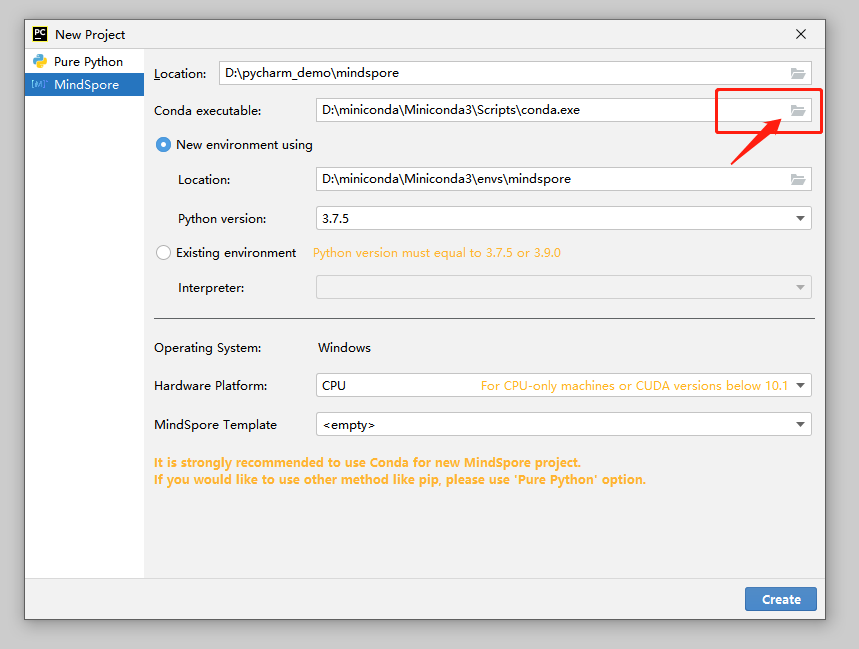
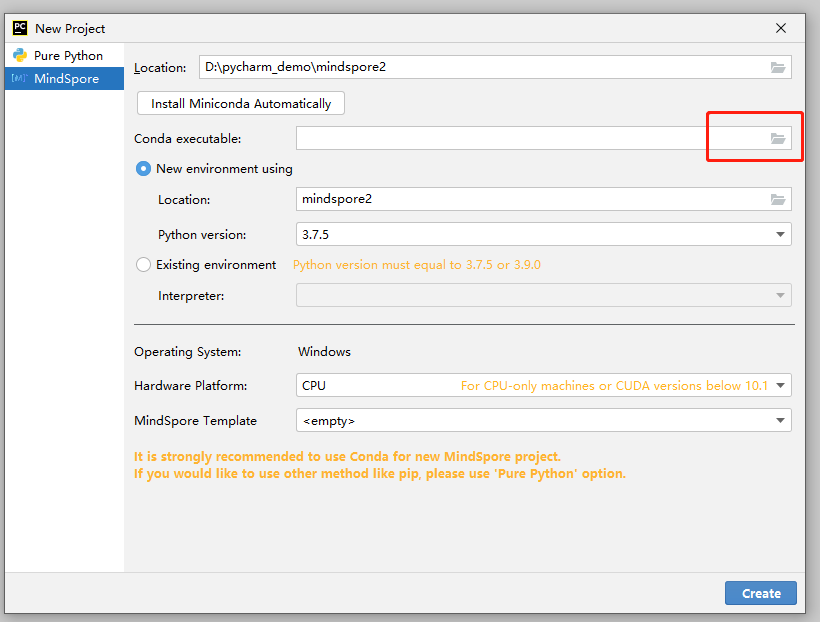
modify plugin doc

Changed region(s): [[0.0, 0.0, 1.0, 1.0]]

diff --git a/docs/devtoolkit/docs/source_zh_cn/compiling.md b/docs/devtoolkit/docs/source_zh_cn/compiling.md
@@ -37,7 +37,7 @@
 
 3. 使用IntelliJ IDEA打开项目。
 
-    3.1 File -> Open。
+    3.1 选择File选项卡下的Open选项。***File -> Open***
 
       ![img](images/clip_image033.jpg)
 
@@ -77,7 +77,7 @@
 
     ![img](images/clip_image044.jpg)
 
-8. 构建完成后至项目目录下/build/distributions目录下获取插件安装包。
+8. 构建完成后至项目目录下/pycharm/build/distributions目录下获取插件安装包。
 
     ![img](images/clip_image046.jpg)
 

diff --git a/docs/devtoolkit/docs/source_en/compiling.md b/docs/devtoolkit/docs/source_en/compiling.md
@@ -78,7 +78,7 @@ The following describes how to compile the MindSpore Dev ToolKit project based o
 
     ![img](images/clip_image044.jpg)
 
-8. Obtain the plug-in installation package from the **/build/distributions** directory in the project directory.
+8. Obtain the plug-in installation package from the **/pycharm/build/distributions** directory in the project directory.
 
     ![img](images/clip_image046.jpg)
 

diff --git a/docs/devtoolkit/docs/source_zh_cn/mindspore_project_wizard.md b/docs/devtoolkit/docs/source_zh_cn/mindspore_project_wizard.md
@@ -46,7 +46,7 @@
 
       ![img](images/clip_image015.jpg)
 
-4. 如果Conda executable没有自动填充，选择已安装的conda的路径。
+4. 如果用户本地已经安装过Conda，但是Conda executable没有自动填充，点击文件夹按钮，选择本地已安装的conda的路径。
 
     ![img](images/clip_image016.jpg)
 

diff --git a/docs/devtoolkit/docs/source_zh_cn/index.rst b/docs/devtoolkit/docs/source_zh_cn/index.rst
@@ -47,7 +47,7 @@ MindSpore Dev Toolkit 是一款 `PyCharm <https://www.jetbrains.com/pycharm/>`_ 
 
    .. image:: ./images/clip_image050.jpg
 
-3. 选择插件zip包。
+3. 选择下载好的插件包（以1.7版本安装包为例）
 
    .. image:: ./images/clip_image052.jpg
 

diff --git a/docs/devtoolkit/docs/source_en/index.rst b/docs/devtoolkit/docs/source_en/index.rst
@@ -47,7 +47,7 @@ Installation
 
    .. image:: ./images/clip_image050.jpg
 
-3. Select the ZIP package of the plug-in.
+3. Select the ZIP package of the plug-in (take version 1.7 as an example).
 
    .. image:: ./images/clip_image052.jpg
 
